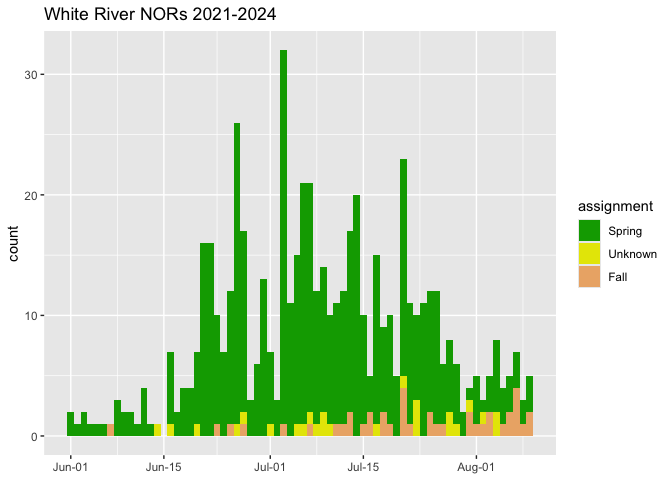
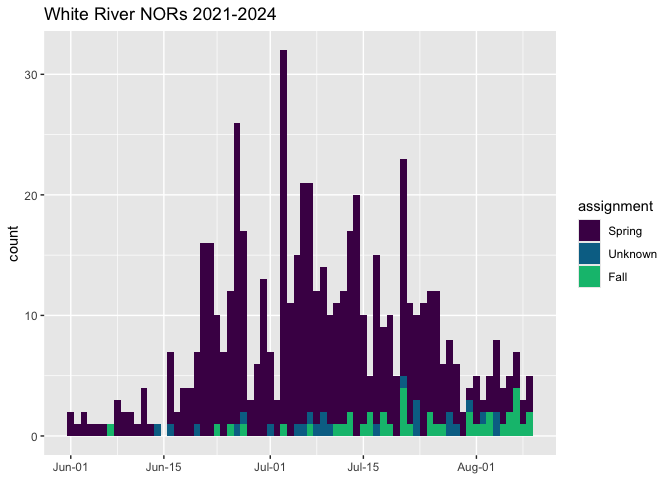
pal

Changed region(s): [[0.0938, 0.0938, 0.8125, 0.9062], [0.8438, 0.4375, 0.9062, 0.5938]]

diff --git a/run-timing-genetics.md b/run-timing-genetics.md
@@ -8,9 +8,10 @@ Tyler McCraney
 
 ![](run-timing-genetics_files/figure-gfm/unnamed-chunk-3-1.png)<!-- -->![](run-timing-genetics_files/figure-gfm/unnamed-chunk-3-2.png)<!-- -->![](run-timing-genetics_files/figure-gfm/unnamed-chunk-3-3.png)<!-- -->
 
-![](run-timing-genetics_files/figure-gfm/unnamed-chunk-4-1.png)<!-- -->![](run-timing-genetics_files/figure-gfm/unnamed-chunk-4-2.png)<!-- -->
+I changed the pallette for *asssignment* to avoid confusion with
+*allele* or *genotype*.
 
-Selection against heterozygotes (underdominance)?
+![](run-timing-genetics_files/figure-gfm/unnamed-chunk-4-1.png)<!-- -->![](run-timing-genetics_files/figure-gfm/unnamed-chunk-4-2.png)<!-- -->
 
 #### GRR genotypes in Hardy-Weinberg Equilibrium 2021-2025 (both individually and combined). Not in HWE when 2026 added, or 2026 individually, 2026 spring, and 2026 non-spring.
 
